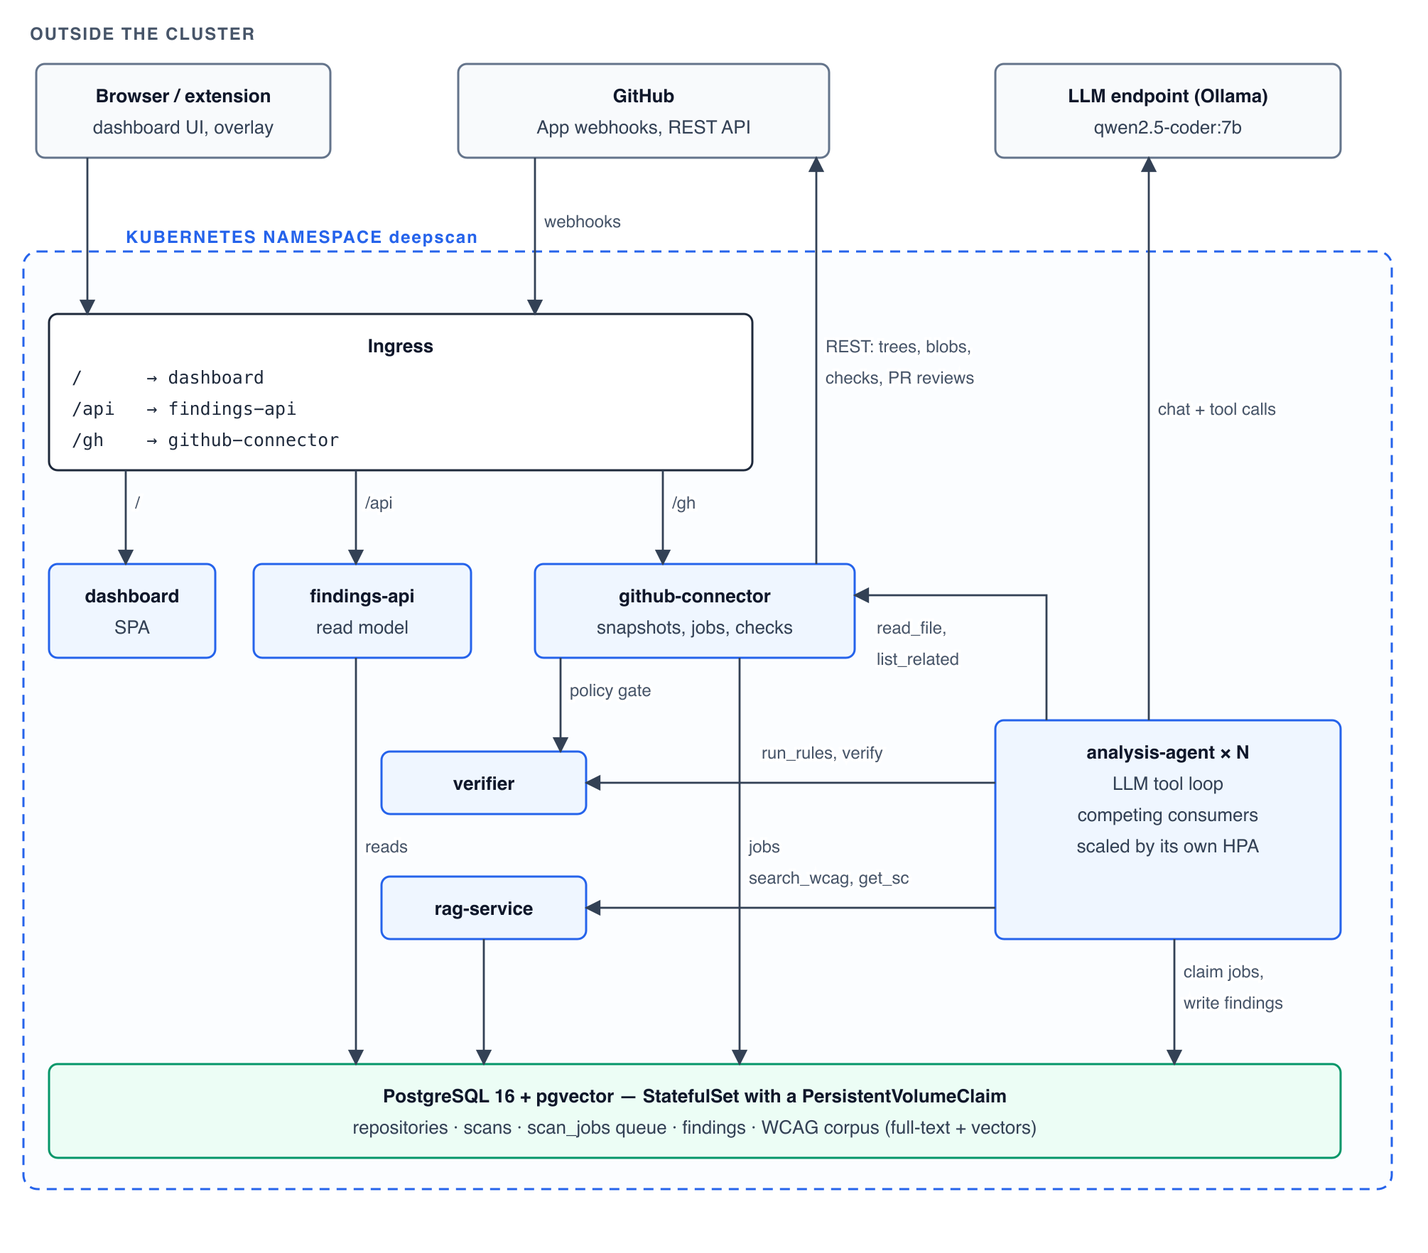
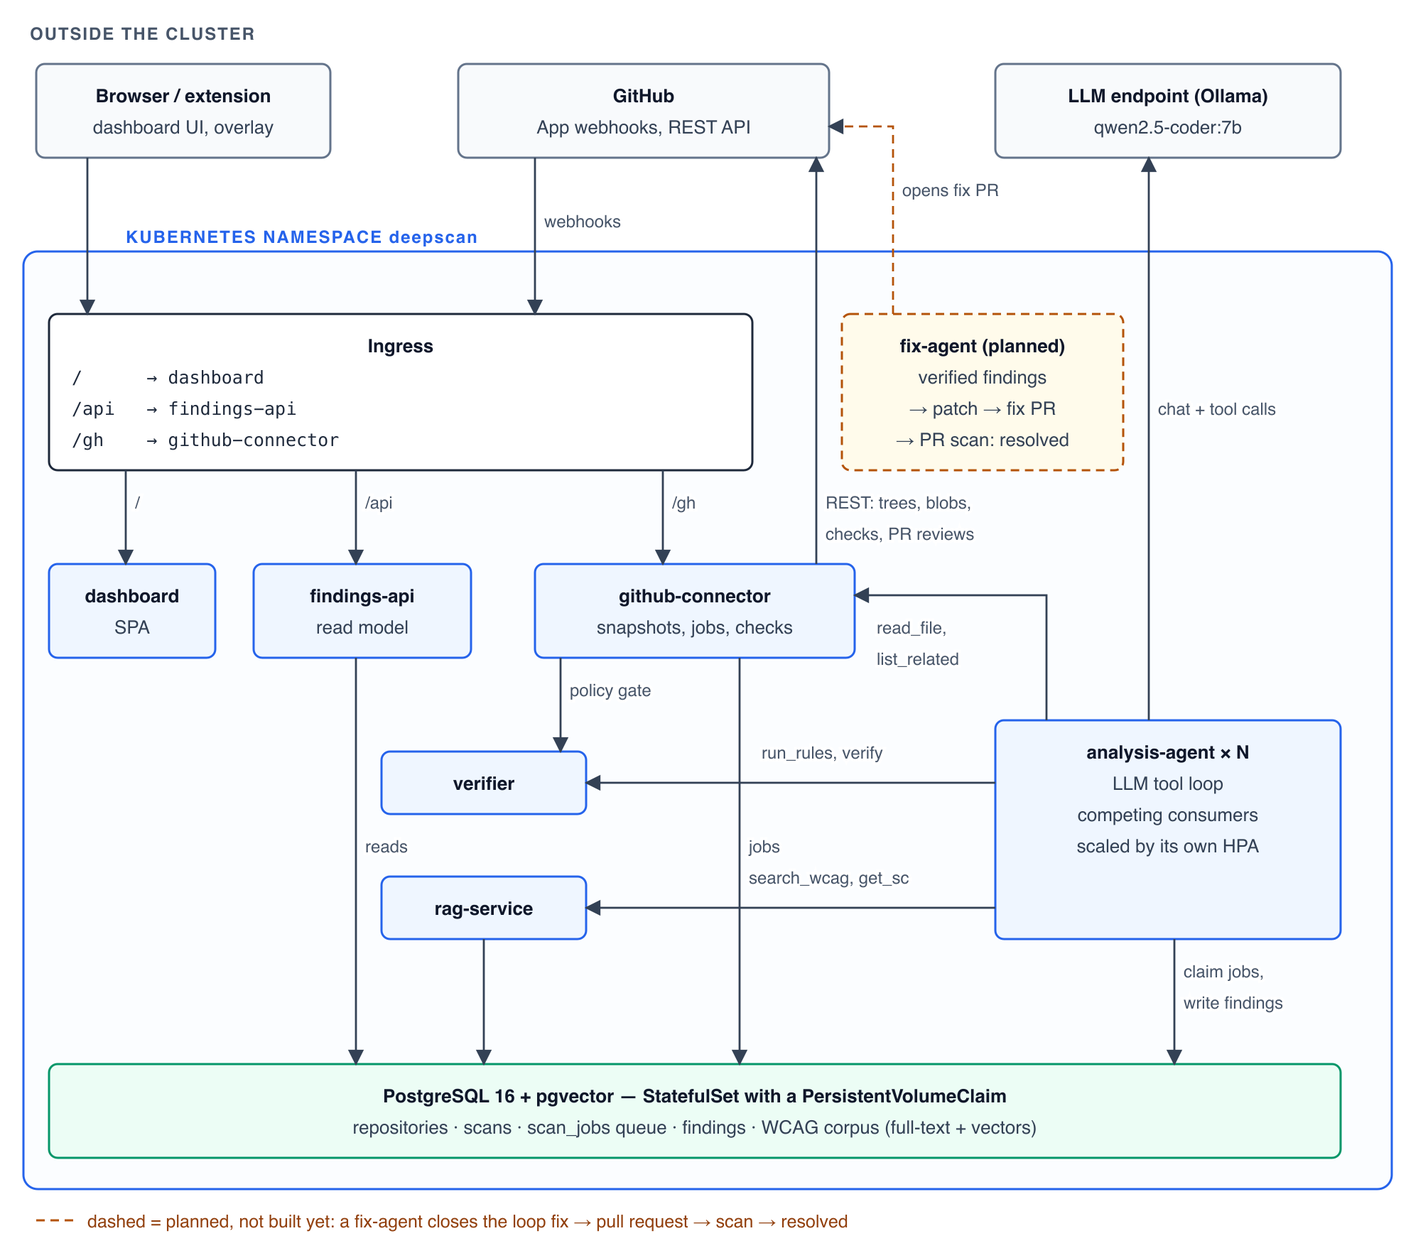
Rescan from the scan and history pages, breadcrumbs, and the planned fix loop
The scan and history pages had no way to scan again after issues were fixed,
and the only link back was "All repositories", which led to the start page.
Both pages now have a Rescan button and a Home › repository › scan trail.
A full scan links to "What changed since the previous scan" (the same diff a
pull request gets against its base).

The architecture diagram shows the not-yet-built fix-agent as a dashed box,
and the report gains a "What comes next" section: the fix → PR → scan loop,
more scan domains beyond accessibility, and queue-length autoscaling.
Dashboard image bumped to 1.1.0.

diff --git a/services/dashboard/web/app.ts b/services/dashboard/web/app.ts
@@ -12,6 +12,7 @@ type Tree = z.output<typeof TreeResponse>;
 type Progress = z.output<typeof ProgressResponse>;
 type Finding = z.output<typeof FindingsResponse>["findings"][number];
 type FileNode = Tree["files"][number];
+type Scan = z.output<typeof ScanSummary>;
 
 const GhConfig = z.object({ appConfigured: z.boolean(), signInEnabled: z.boolean(), installUrl: z.string().nullable(), publicScans: z.boolean() });
 
@@ -91,22 +92,39 @@ async function renderAccount() {
 }
 
 /* ---------- home ---------- */
+/** starts a scan and opens it; on failure the message goes into `err` and the button is re-enabled */
+async function startScan(body: object, btn: HTMLButtonElement, err: HTMLElement) {
+  err.textContent = "";
+  btn.disabled = true;
+  try {
+    const r = await api("/gh/scans", CreateScanResponse, { method: "POST", body: JSON.stringify(body) });
+    location.hash = `#/scans/${r.scanId}`;
+  } catch (e) {
+    err.textContent = (e as Error).message;
+    btn.disabled = false;
+  }
+}
+
+/** "Rescan" — a new full scan of the repository's default branch, e.g. after the issues were fixed */
+function rescanButton(repoId: string) {
+  const err = h("span", { class: "error", role: "alert" });
+  const btn: HTMLButtonElement = h("button", { type: "button", onclick: () => void startScan({ repoId }, btn, err) }, "Rescan");
+  return h("span", { class: "rescan" }, btn, err);
+}
+
+type Crumb = { label: string; href?: string; mono?: boolean };
+const crumbs = (...items: Crumb[]) =>
+  h("nav", { class: "crumbs", "aria-label": "Breadcrumb" },
+    h("ol", {}, items.map((c, i) => h("li", {},
+      i === items.length - 1
+        ? h("span", { "aria-current": "page", class: c.mono ? "mono" : undefined }, c.label)
+        : h("a", { href: c.href, class: c.mono ? "mono" : undefined }, c.label)))));
+
 async function home() {
   const err = h("p", { class: "error", role: "alert" });
   const input = h("input", { id: "repo-url", name: "repo", type: "url", inputmode: "url", placeholder: "https://github.com/owner/repo", "aria-describedby": "repo-hint", required: true, autocomplete: "off" });
   const submit = h("button", { type: "submit" }, "Scan repository");
-  const startScan = async (body: object, btn: HTMLButtonElement) => {
-    err.textContent = "";
-    btn.disabled = true;
-    try {
-      const r = await api("/gh/scans", CreateScanResponse, { method: "POST", body: JSON.stringify(body) });
-      location.hash = `#/scans/${r.scanId}`;
-    } catch (e) {
-      err.textContent = (e as Error).message;
-      btn.disabled = false;
-    }
-  };
-  const form = h("form", { class: "scan-form", onsubmit: (e: Event) => { e.preventDefault(); void startScan({ repoUrl: input.value.trim() }, submit); } },
+  const form = h("form", { class: "scan-form", onsubmit: (e: Event) => { e.preventDefault(); void startScan({ repoUrl: input.value.trim() }, submit, err); } },
     h("h2", {}, "Scan a repository"),
     h("label", { for: "repo-url" }, "GitHub repository URL"),
     input,
@@ -141,7 +159,7 @@ async function home() {
         h("td", {}, r.lastScan ? h("span", {}, statusPill(r.lastScan.status), " ", ago(r.lastScan.createdAt)) : "Never scanned"),
         h("td", {}, r.lastScan ? h("a", { href: `#/scans/${r.lastScan.id}` }, "Open last scan") : null),
       ));
-    const demoBtn = demo ? h("button", { type: "button", class: "btn-quiet", onclick: (e: Event) => void startScan({ repoId: demo.id }, e.currentTarget as HTMLButtonElement) }, "Scan the demo repository") : null;
+    const demoBtn = demo ? h("button", { type: "button", class: "btn-quiet", onclick: (e: Event) => void startScan({ repoId: demo.id }, e.currentTarget as HTMLButtonElement, err) }, "Scan the demo repository") : null;
     reposBox.replaceChildren(
       h("div", { class: "toolbar" }, h("h2", { id: "repos-h" }, "Repositories"), demoBtn),
       repos.length
@@ -153,6 +171,15 @@ async function home() {
   }
 }
 
+/** what this scan changed: a pull request against its base, a full scan against the previous completed full scan */
+function compareLink(s: Scan, scans: Scan[]) {
+  if (s.kind === "pr") return s.baseScanId ? h("a", { href: `#/scans/${s.baseScanId}/diff/${s.id}` }, "Compare with base commit") : null;
+  if (s.status !== "completed") return null;
+  const prev = scans.filter((x) => x.kind === "full" && x.status === "completed" && x.id !== s.id && Date.parse(x.createdAt) < Date.parse(s.createdAt))
+    .sort((a, b) => Date.parse(b.createdAt) - Date.parse(a.createdAt))[0];
+  return prev ? h("a", { href: `#/scans/${prev.id}/diff/${s.id}` }, "What changed since the previous scan") : null;
+}
+
 /* ---------- repo ---------- */
 async function repoPage(id: string) {
   setPage("Repository", h("p", { class: "empty" }, "Loading…"));
@@ -160,14 +187,14 @@ async function repoPage(id: string) {
     const { scans } = await api(`/api/repos/${id}/scans`, ScansResponse);
     const name = scans[0]?.repoFullName ?? "Repository";
     setPage(name,
-      h("p", {}, h("a", { href: "#/" }, "All repositories")),
-      h("h1", { class: "mono", style: { margin: ".5rem 0 1rem" } }, name),
+      crumbs({ label: "Home", href: "#/" }, { label: name, mono: true }),
+      h("div", { class: "page-head" }, h("h1", { class: "mono" }, name), rescanButton(id)),
       scans.length
         ? h("div", { class: "table-wrap" }, h("table", {},
-            h("thead", {}, h("tr", {}, ...["Scan", "Trigger", "Ref", "Status", "Started"].map((t) => h("th", { scope: "col" }, t)))),
+            h("thead", {}, h("tr", {}, ...["Scan", "Changes", "Ref", "Status", "Started"].map((t) => h("th", { scope: "col" }, t)))),
             h("tbody", {}, scans.map((s) => h("tr", {},
               h("td", {}, h("a", { href: `#/scans/${s.id}` }, s.kind === "pr" ? `Pull request #${s.prNumber}` : "Full scan")),
-              h("td", {}, s.kind === "pr" && s.baseScanId ? h("a", { href: `#/scans/${s.baseScanId}/diff/${s.id}` }, "Compare with base") : "—"),
+              h("td", {}, compareLink(s, scans) ?? "—"),
               h("td", { class: "mono" }, `${s.ref} @ ${s.headSha.slice(0, 7)}`),
               h("td", {}, statusPill(s.status)),
               h("td", {}, ago(s.createdAt)),
@@ -211,7 +238,9 @@ async function scanPage(id: string) {
   const ribbonBox = h("section", { class: "ribbon-wrap", "aria-labelledby": "ribbon-h" });
   const treeBox = h("section", { class: "panel", "aria-labelledby": "tree-h" });
   const findBox = h("section", { class: "panel", "aria-labelledby": "find-h" });
-  setPage("Scan", h("p", {}, h("a", { href: "#/" }, "All repositories")), head, ribbonBox, h("div", { class: "split" }, treeBox, findBox));
+  const nav = h("div");
+  setPage("Scan", nav, head, ribbonBox, h("div", { class: "split" }, treeBox, findBox));
+  let history: Scan[] | null = null;
   let lastStatus = "";
   const openDirs = new Set<string>();
   let dirsInitialised = false;
@@ -226,16 +255,19 @@ async function scanPage(id: string) {
   function renderHead() {
     const s = st.tree!.scan;
     const p = st.progress;
+    const finished = s.status === "completed" || s.status === "failed";
+    nav.replaceChildren(crumbs({ label: "Home", href: "#/" }, { label: s.repoFullName, href: `#/repos/${s.repoId}`, mono: true }, { label: s.kind === "pr" ? `Pull request #${s.prNumber}` : `Scan ${s.headSha.slice(0, 7)}` }));
+    const cmp = history ? compareLink(s, history) : null;
     head.replaceChildren(
       h("div", {},
-        h("h1", { class: "mono" }, s.repoFullName),
+        h("div", { class: "page-head" }, h("h1", { class: "mono" }, s.repoFullName), finished ? rescanButton(s.repoId) : null),
         h("div", { class: "meta" },
           statusPill(s.status),
           h("span", {}, s.kind === "pr" ? `Pull request #${s.prNumber}` : "Full scan"),
           h("span", { class: "mono" }, `${s.ref} @ ${s.headSha.slice(0, 7)}`),
           p ? h("span", {}, `${(p.elapsedMs / 1000).toFixed(1)} s`) : null,
           h("a", { href: `#/repos/${s.repoId}` }, "Scan history"),
-          s.baseScanId ? h("a", { href: `#/scans/${s.baseScanId}/diff/${s.id}` }, "Compare with base commit") : null,
+          cmp,
         ),
       ),
     );
@@ -351,6 +383,9 @@ async function scanPage(id: string) {
       const [tree, progress] = await Promise.all([api(`/api/scans/${id}/tree`, TreeResponse), api(`/api/scans/${id}/progress`, ProgressResponse)]);
       st.tree = tree;
       st.progress = progress;
+      if (!history && (progress.status === "completed" || progress.status === "failed")) {
+        history = await api(`/api/repos/${tree.scan.repoId}/scans`, ScansResponse).then((r) => r.scans, () => []);
+      }
       renderHead();
       renderRibbon();
       renderTree();
@@ -382,9 +417,9 @@ async function diffPage(base: string, headId: string) {
     const groups = (["regression", "resolved", "persistent"] as const).map((k) => ({ k, items: d.items.filter((i) => i.diff === k && i.status !== "rejected") }));
     const label = { regression: "New in this version", resolved: "Fixed in this version", persistent: "Already present before" };
     setPage("Compare",
-      h("p", {}, h("a", { href: `#/scans/${headId}` }, "Back to scan")),
+      crumbs({ label: "Home", href: "#/" }, { label: hs.repoFullName, href: `#/repos/${hs.repoId}`, mono: true }, { label: hs.kind === "pr" ? `Pull request #${hs.prNumber}` : `Scan ${hs.headSha.slice(0, 7)}`, href: `#/scans/${headId}` }, { label: "Changes" }),
       h("h1", { class: "mono", style: { margin: ".5rem 0" } }, hs.repoFullName),
-      h("p", { class: "hint", style: { marginBottom: "1rem" } }, `${hs.kind === "pr" ? `Pull request #${hs.prNumber}` : hs.ref} compared with the base commit. Findings are matched by fingerprint, so moved code is not reported as new.`),
+      h("p", { class: "hint", style: { marginBottom: "1rem" } }, `${hs.kind === "pr" ? `Pull request #${hs.prNumber}` : hs.ref} ${hs.kind === "pr" ? "compared with the base commit" : "compared with the previous full scan"}. Findings are matched by fingerprint, so moved code is not reported as new.`),
       h("div", { class: "diffbar" }, groups.map((g) => h("span", { class: `pill diff-${g.k}` }, `${label[g.k]}: ${g.items.length}`))),
       ...groups.map((g) => h("section", { class: "panel", style: { marginBottom: "1rem" }, "aria-label": label[g.k] },
         h("h2", { class: `diff-${g.k}`, style: { marginBottom: ".5rem" } }, label[g.k]),

diff --git a/services/dashboard/web/styles.css b/services/dashboard/web/styles.css
@@ -161,3 +161,12 @@ th { font-weight: 600; color: var(--ink-soft); font-size: .9rem; }
   .cell { width: 14px; height: 28px; }
 }
 h1.mono { font-family: var(--mono); font-size: clamp(1.25rem, 2.6vw, 1.75rem); font-weight: 600; overflow-wrap: anywhere; }
+
+/* breadcrumbs: Home › repository › scan */
+.crumbs ol { display: flex; flex-wrap: wrap; gap: .35rem; list-style: none; margin: 0 0 .75rem; padding: 0; color: var(--ink-soft); font-size: .95rem; }
+.crumbs li + li::before { content: "›"; margin-right: .35rem; color: var(--ink-soft); }
+.crumbs [aria-current="page"] { color: var(--ink); }
+.crumbs .mono { font-family: var(--mono); }
+.page-head { display: flex; flex-wrap: wrap; align-items: center; gap: .75rem 1rem; margin-bottom: 1rem; }
+.scan-head .page-head { margin-bottom: 0; }
+.rescan { display: inline-flex; align-items: center; gap: .5rem; }

diff --git a/docs/REPORT.md b/docs/REPORT.md
@@ -20,11 +20,15 @@ For every markup or style file (HTML, JSX/TSX, Vue, Svelte, CSS) the system does
 
 Every finding gets a structural **fingerprint** that is stable across line shifts. Pull requests are compared with the scan of their base commit, which classifies each finding as **new**, **fixed** or **pre-existing**. Only new, verified findings of blocking severity fail the GitHub check. Results are published as a Check Run with annotations, inline review comments and a summary comment. They are also shown in a web dashboard that displays the repository tree while it is being scanned, and in a browser extension that outlines the issues on the live website.
 
+Once the issues are fixed, the system checks the fix by itself. A push to the default branch starts a new full scan, and every new commit on a pull request re-scans it. In the dashboard, a *Rescan* button on the scan and history pages does the same by hand, and *What changed since the previous scan* lists which issues are fixed, which are new and which are still there.
+
 **Scale assumption.** The demo repository has 13 analysable files, which does not need scaling. To make the architecture meaningful, assume a SaaS that serves organisations with thousands of repositories and hundreds of pull requests per day, where each file costs an LLM round trip of several seconds. In the default configuration the mock LLM simulates this latency (`MOCK_DELAY_MS`).
 
 ## 2. Architecture
 
 [![Architecture](assets/architecture.png)](assets/architecture.svg)
+
+Everything drawn with solid lines is built and deployed. The dashed box is the one part that is not built yet: a fix-agent that would close the loop from finding to fix (section 5).
 
 The same diagram as text:
 
@@ -33,20 +37,20 @@ The same diagram as text:
  OUTSIDE THE CLUSTER
  ┌──────────────────────┐         ┌────────────────────────────┐            ┌──────────────────────────┐
  │ Browser / extension  │         │ GitHub                     │            │ LLM endpoint (Ollama)    │
- │ dashboard UI, overlay│         │ App webhooks, REST API     │            │ qwen2.5-coder:7b         │
- └──────────────────────┘         └────────────────────────────┘            └──────────────────────────┘
-     │                                  │                     ▲                         ▲
-     │                                  │webhooks             │                         │
-╔════╪═ KUBERNETES NAMESPACE deepscan ══╪═════════════════════╪═════════════════════════╪══════════════════╗
-║    ▼                                  ▼                     │                         │                  ║
-║ ┌──────────────────────────────────────────────────────┐    │                         │                  ║
-║ │ Ingress                                              │    │REST: trees, blobs,      │                  ║
-║ │ /      → dashboard                                   │    │checks, PR reviews       │                  ║
-║ │ /api   → findings-api                                │    │                         │chat + tool calls ║
-║ │ /gh    → github-connector                            │    │                         │                  ║
-║ └──────────────────────────────────────────────────────┘    │                         │                  ║
-║       │/                │/api                   │/gh        │                         │                  ║
-║       ▼                 ▼                       ▼           │                         │                  ║
+ │ dashboard UI, overlay│         │ App webhooks, REST API     │◀┄┄┄┐       │ qwen2.5-coder:7b         │
+ └──────────────────────┘         └────────────────────────────┘    ┆       └──────────────────────────┘
+     │                                  │                     ▲     ┆opens fix PR       ▲
+     │                                  │webhooks             │     ┆                   │
+╔════╪═ KUBERNETES NAMESPACE deepscan ══╪═════════════════════╪═════╪═══════════════════╪══════════════════╗
+║    ▼                                  ▼                     │     ┆                   │                  ║
+║ ┌──────────────────────────────────────────────────────┐    │ ┌┄┄┄┄┄┄┄┄┄┄┄┄┄┄┄┄┄┄┄┄┄┐ │                  ║
+║ │ Ingress                                              │    │ ┆ fix-agent (planned) ┆ │                  ║
+║ │ /      → dashboard                                   │    │ ┆ verified findings   ┆ │                  ║
+║ │ /api   → findings-api                                │    │ ┆ → patch → fix PR    ┆ │chat + tool calls ║
+║ │ /gh    → github-connector                            │    │ ┆ → PR scan: resolved ┆ │                  ║
+║ └──────────────────────────────────────────────────────┘    │ └┄┄┄┄┄┄┄┄┄┄┄┄┄┄┄┄┄┄┄┄┄┘ │                  ║
+║       │/                │/api                   │/gh        │REST: trees, blobs,      │                  ║
+║       ▼                 ▼                       ▼           │checks, PR reviews       │                  ║
 ║ ┌────────────┐  ┌────────────────┐    ┌────────────────────────┐                      │                  ║
 ║ │ dashboard  │  │ findings-api   │    │ github-connector       │◀─────────────┐       │                  ║
 ║ │ SPA        │  │ read model     │    │ snapshots, jobs, checks│ read_file,   │       │                  ║
@@ -68,7 +72,7 @@ The same diagram as text:
 ║ │ repositories · scans · scan_jobs queue · findings · WCAG corpus (full-text + vectors)              │   ║
 ║ └────────────────────────────────────────────────────────────────────────────────────────────────────┘   ║
 ╚══════════════════════════════════════════════════════════════════════════════════════════════════════════╝
-
+ ┄┄ dashed = planned, not built yet: fix-agent closes the loop fix → PR → scan → resolved
 ```
 <!-- architecture:end -->
 
@@ -160,6 +164,14 @@ The language model is not part of the deployment. It is an external endpoint tha
 - **Data residency and model choice.** The provider abstraction allows an on-premise or EU-hosted model, which is a sales requirement in regulated sectors.
 - **Lock-in.** The system is portable: plain Kubernetes, PostgreSQL and REST. The only external dependencies are GitHub and the LLM API.
 
-## 5. Use of generative AI
+## 5. What comes next
+
+**Closing the loop from finding to fix.** Today the loop is closed only on the checking side. A developer fixes the code, the push or the pull request is scanned again, and the comparison with the previous scan shows the issue as fixed. The fixing itself is still done by a person. The next step is the dashed box in the architecture diagram: a fix-agent that takes the verified findings of a scan, writes a patch for those with a safe, local fix (a missing `lang`, an icon button without a name, a removed focus outline, a form field without a label), and opens a pull request with it. That pull request then goes through the same pipeline as any other. It is scanned against its base, and the check passes only if the findings it targets come back as fixed and no new ones appear. A person still reviews and merges it. Little new infrastructure is needed: the fix-agent is one more consumer of the existing job queue, its patches are judged by the same deterministic verifier, and its pull requests go through the same webhook path as human ones. Findings that need judgement, such as whether an alt text actually describes the image, stay with people.
+
+**More scan domains.** The first domain is web accessibility, because that is where the law (the European Accessibility Act) creates demand now. Nothing in the architecture is tied to it, though. The rules work on a framework-neutral element model, the knowledge base is a corpus loaded into `rag-service`, the list of valid criteria is an enum in the contract layer, and fingerprints, baselines and the pull-request gate do not care what a finding is about. Other domains can be added the same way, each with its own rule pack, corpus and criteria list: front-end security (unsafe HTML injection, missing security headers, secrets in client code), privacy (trackers and cookies loaded before consent, in the GDPR sense), and the quality of markup for search engines and performance. Each domain can get its own job queue and agent Deployment, so a heavy domain scales without slowing the others.
+
+**Scaling on the right signal.** The agents are scaled on CPU today, which is a weak signal for work that mostly waits for the model. Scaling on the length of the job queue with KEDA (Kubernetes Event-driven Autoscaling) is the next change to the deployment.
+
+## 6. Use of generative AI
 
 Generative AI (Claude) was used as a programming assistant while designing and implementing this project. All code was reviewed, run and tested by the author; the design decisions and their justification are the author's.
